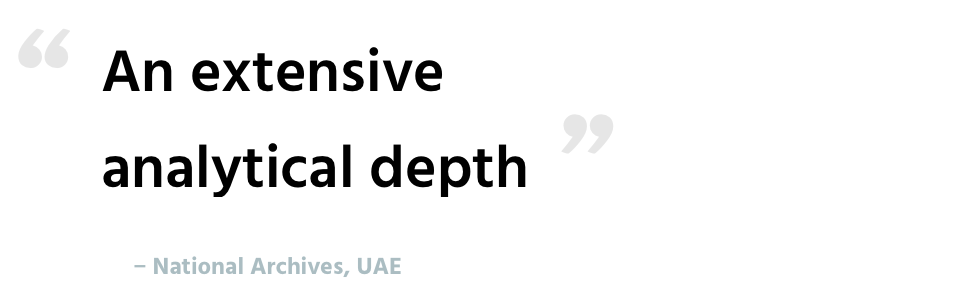
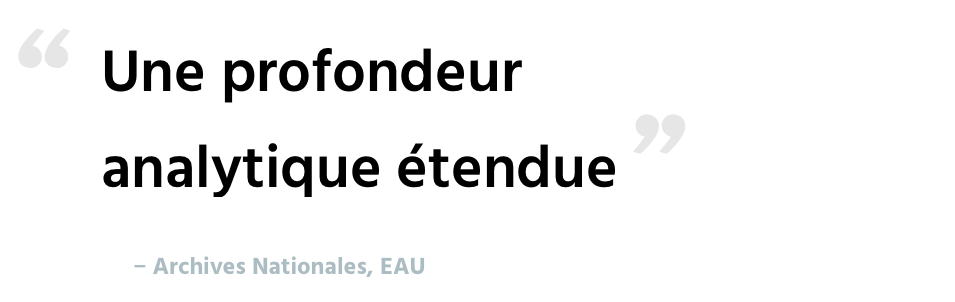
Update content and media

Changed region(s): [[0.3037, 0.3874, 0.7288, 0.6556], [0.0911, 0.149, 0.5466, 0.3576], [0.1518, 0.8344, 0.4555, 0.9238]]

diff --git a/resources/main.css b/resources/main.css
@@ -40,8 +40,8 @@ img.quote, .quote img {
 
 img.quote.large, .quote.large img {
   height: 40vh;
-  margin-top: -50px;
-  margin-bottom: -50px;
+  margin-top: -20px;
+  margin-bottom: 0px;
 }
 
 .fullheight img, img.fullheight {

diff --git a/resources/book.css b/resources/book.css
@@ -1,4 +1,4 @@
-@import url(/resources/main.css);
+@import url(/fr/resources/main.css);
 
 .book_preview_block {
 

diff --git a/index.md b/index.md
@@ -5,12 +5,12 @@ stylesheet: /fr/resources/main.css
 ---
 
 {:.page_title}
-#### Writer, Philosopher and a Creative
+#### Écrivaine et Philosophe
 # Mangala El Charif
 
 ![Picture of Mangala El Charif with a city background](/resources/home.jpg)
 
-### I am a Lebanese trilingual writer and academic researcher specializing in comparative literature. I received my Ph.D from the the Sorbonne University in Paris with highest honors.
+### Écrivaine libanaise trilingue et docteur ès lettres spécialisée en Littérature Générale et Comparée de l'Université de la Sorbonne Nouvelle - Paris III avec la mention très honorable.
 
 <div class="block_link">
   <a href="thesis">Pour savoir plus sur ma thèse</a>

diff --git a/knight_of_the_desert.md b/knight_of_the_desert.md
@@ -17,7 +17,7 @@ description: Ce livre explore la profondeur cognitive et les dimensions philosop
 # Such as a synopsis or link to buying the book, extra images etc.
 ---
 
-{:.quote}
+{:.quote.large}
 ![An outstanding political philosophy research ‒ Ministry of Presidential Affairs, UAE](/resources/quote2.png)
 
 {:.no_margins}

diff --git a/README.md b/README.md
@@ -1,2 +1,2 @@
-# fr
+# mangalacharif.github.io/fr
 The french version of mangalacharif.github.io
